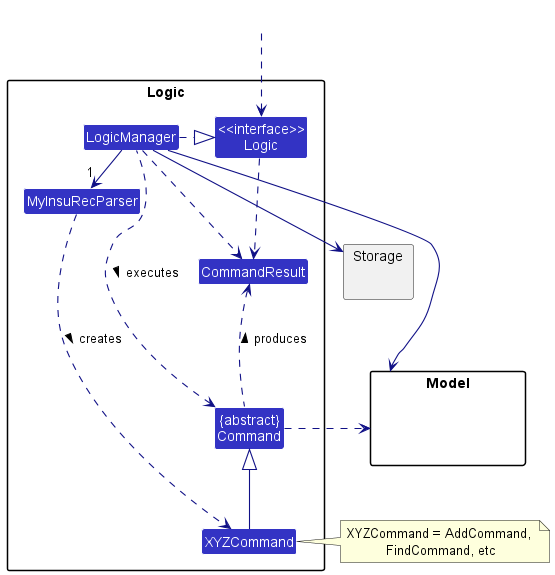
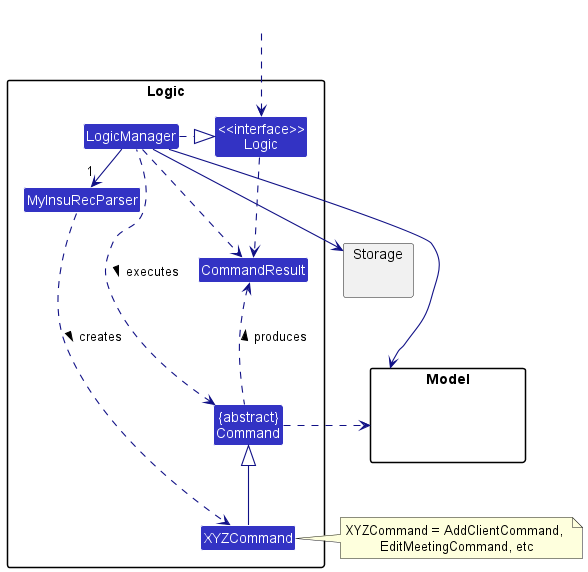
Fix command name in logic diagram and standardise the use cases

diff --git a/docs/DeveloperGuide.md b/docs/DeveloperGuide.md
@@ -538,33 +538,18 @@ Priorities: High (must have) - `* * *`, Medium (nice to have) - `* *`
 
 1. User requests to add a client.
 2. System adds the client.
+3. System informs user that client has been added. 
 
    Use case ends.
 
 **Extensions**
 
-* 1a. User inputs incomplete or invalid client data.
+* 1a. User inputs incomplete or invalid data.
     * 1a1. System shows an error message.
 
       Use case ends.
 
-#### 5.3.2 Use case: UC2 - View a client
-
-**MSS**
-
-1. User selects client to view.
-2. System displays the client information.
-
-   Use case ends.
-
-**Extensions**
-
-* 1a. User selects a non-existent client.
-    * 1a1. System shows an error message.
-
-      Use case ends.
-
-#### 5.3.3 Use case: UC3 - List all clients
+#### 5.3.2 Use case: UC2 - List all clients
 
 **MSS**
 
@@ -585,12 +570,33 @@ Priorities: High (must have) - `* * *`, Medium (nice to have) - `* *`
 
       Use case ends.
 
+#### 5.3.3 Use case: UC3 - View a client
+
+**MSS**
+
+1. User requests for a [list of all clients](#532-use-case-uc2---list-all-clients).
+2. System shows a list of clients.
+3. User selects client to view by specifying the index of the client.
+4. System displays the client information.
+
+   Use case ends.
+
+**Extensions**
+
+* 1a. User selects a non-existent client.
+    * 1a1. System shows an error message.
+
+      Use case ends.
+
 #### 5.3.4 Use case: UC4 - Delete a client
 
 **MSS**
 
-1. User requests to delete a client.
-2. Client is removed from the system.
+1. User requests for a [list of all clients](#532-use-case-uc2---list-all-clients).
+2. System shows a list of clients.
+3. User requests to delete a client by specifying the index of the client.
+4. System removes the client.
+5. System informs user that the specified client has been removed.
 
    Use case ends.
 
@@ -605,8 +611,11 @@ Priorities: High (must have) - `* * *`, Medium (nice to have) - `* *`
 
 **MSS**
 
-1. User requests to edit a client.
-2. System replaces current client information with the new information.
+1. User requests for a [list of all clients](#532-use-case-uc2---list-all-clients).
+2. System shows a list of clients.
+3. User requests to edit a client by specifying the index of the client.
+4. System replaces current client information with the new information.
+5. System informs user that the specified client has been updated.
 
    Use case ends.
 
@@ -621,8 +630,11 @@ Priorities: High (must have) - `* * *`, Medium (nice to have) - `* *`
 
 **MSS**
 
-1. User requests to add a meeting.
-2. System adds the meeting.
+1. User requests for a [list of all clients](#532-use-case-uc2---list-all-clients).
+2. System shows a list of clients. 
+3. User requests to add a meeting to a specific client by specifying the index of the client. 
+4. System adds the meeting. 
+5. System informs user that meeting has been added.
 
    Use case ends.
 
@@ -633,23 +645,7 @@ Priorities: High (must have) - `* * *`, Medium (nice to have) - `* *`
 
       Use case ends.
 
-#### 5.3.7 Use case: UC7 - View a meeting
-
-**MSS**
-
-1. User requests to view a meeting in detail.
-2. System shows the meeting details.
-
-   Use case ends.
-
-**Extensions**
-
-* 1a. User selects a non-existent meeting or inputs an invalid index.
-    * 1a1. System shows an error message.
-
-      Use case ends.
-
-#### 5.3.8 Use case: UC8- List all meetings
+#### 5.3.7 Use case: UC7- List all meetings
 
 **MSS**
 
@@ -662,6 +658,24 @@ Priorities: High (must have) - `* * *`, Medium (nice to have) - `* *`
 
 * 1a. User requests for a list of all meetings in a given period.
     * 1a1. System shows the list of all meetings in the period.
+
+      Use case ends.
+
+#### 5.3.8 Use case: UC8 - View a meeting
+
+**MSS**
+
+1. User requests for a [list of all meetings (UC4)](#use-case-uc4---list-all-meetings).
+2. System shows a list of all meetings.
+3. User requests to view a meeting in detail by specifying the index of the meeting.
+4. System shows the meeting details.
+
+   Use case ends.
+
+**Extensions**
+
+* 1a. User selects a non-existent meeting or inputs an invalid index.
+    * 1a1. System shows an error message.
 
       Use case ends.
 
@@ -679,7 +693,7 @@ Priorities: High (must have) - `* * *`, Medium (nice to have) - `* *`
 
 **Extensions**
 
-* 3a. User deletes a meeting that was not shown in the list.
+* 3a. User deletes a non-existent meeting.
     * 3a1. System shows an error message.
 
       Use case ends.
@@ -688,8 +702,11 @@ Priorities: High (must have) - `* * *`, Medium (nice to have) - `* *`
 
 **MSS**
 
-1. User requests to edit a meeting.
-2. System replaces current meeting information with the new information.
+1. User requests for a [list of all meetings (UC4)](#use-case-uc4---list-all-meetings).
+2. System shows a list of all meetings. 
+3. User requests to edit a meeting by specifying the index of the meeting. 
+4. System replaces current meeting information with the new information.
+5. System informs user that the specific meeting has been updated.
 
    Use case ends.
 
@@ -706,6 +723,7 @@ Priorities: High (must have) - `* * *`, Medium (nice to have) - `* *`
 
 1. User requests to add a product.
 2. System adds the product.
+3. System informs user that the product has been added.
 
    Use case ends.
 
